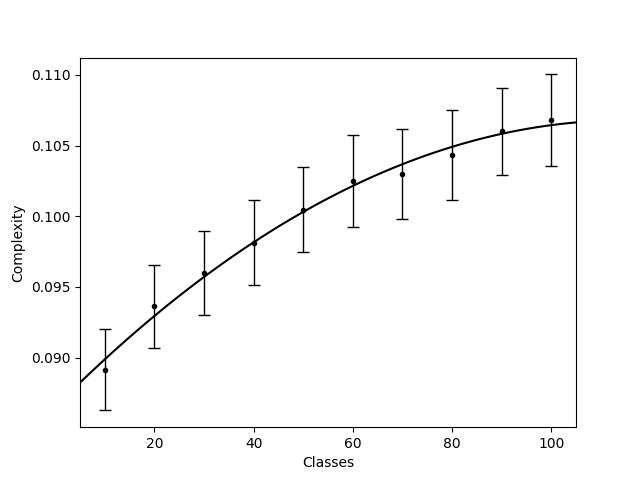
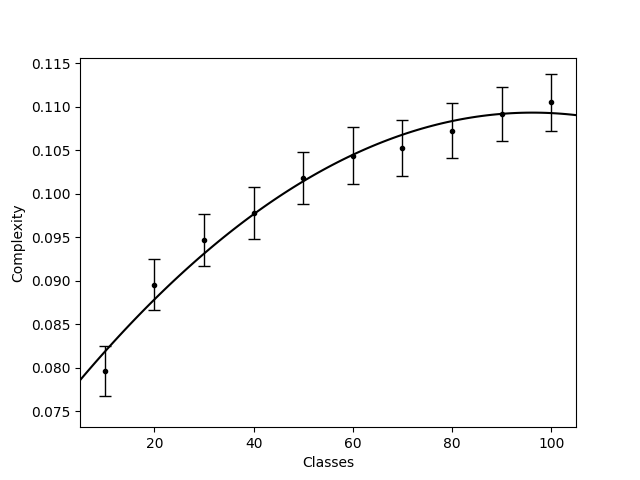
fixing graph label

diff --git a/dev/complexity/classifcation_exp/model_fit.py b/dev/complexity/classifcation_exp/model_fit.py
@@ -8,14 +8,17 @@ from sklearn.model_selection import GridSearchCV
 from sklearn.linear_model import LinearRegression, SGDRegressor
 from sklearn import metrics
 
+from statistics import variance, mean, stdev
+import copy
+
 import matplotlib.pyplot as plt
 
 
-def area_under_curve(model, data):
-    width_const = 0.001
+def area_under_curve(model, data, ran_min):
+    width_const = 0.0001
 
     # Get 100 data points
-    x = np.arange(min(data)[0], max(data)[0], width_const)
+    x = np.arange(min(data), max(data), width_const)
     x = np.reshape(x,(-1, 1))
 
     # Get y prediction 
@@ -38,55 +41,12 @@ def area_under_curve(model, data):
         AuC += box
 
     # Scale by size
-    AuC = AuC / abs(min(data)[0] - max(data)[0])
+    #AuC = AuC / (abs(min(data) - max(data)))
+    #AuC = AuC / min(data)
+    #print(variance(data))
+    #AuC = AuC / (mean(data) * variance(data))
 
     return AuC
-
-# Bin data according to mean
-def box_data(data):
-    number_boxes = 20 + 1
-    new_data = dict()
-
-    # Process by names
-    for name in data.keys():
-        # get score
-        x_data = []
-        # TP
-        y_data = []
-        for i in data[name]:
-            x_data.append(i[4])
-            y_data.append(i[2])
-        
-        # Find min/max score
-        min_s = min(x_data)
-        max_s = max(x_data)
-
-        a = np.arange(min_s, max_s, (max_s - min_s)/number_boxes)
-        
-        for ind, val in enumerate(x_data):
-            x_sum = 0
-            y_sum = 0
-            count = 0
-            for ind2, val2 in enumerate(a[0:len(a)-1]):
-                if x_data[ind] >= a[ind2] and x_data[ind] < a[ind2+1]:
-                    x_sum += x_data[ind]
-                    y_sum += y_data[ind]
-                    count += 1
-            # Check for non zero count
-            if count == 0:
-                continue
-
-            # Get averages and save it
-            x_avg = x_sum / count
-            y_avg = y_sum / count
-
-            # Check if it already exists
-            if name not in new_data:
-                new_data[name] = []
-
-            new_data[name].append([x_avg, y_avg])
-
-    return new_data, std
 
 with open('data/results.csv', newline='') as csvfile:
     spamreader = csv.reader(csvfile, delimiter=',', quotechar='|')
@@ -109,16 +69,18 @@ with open('data/results.csv', newline='') as csvfile:
             continue
         results[row[0]].append(datum)
 
-# Bin the data
-#results = box_data(results)
-#print(results)
-
 k = []
 fig, axs = plt.subplots(2, 3)
 c = 0
 e = []
 AuCs = []
+
+random_mins = {"MNIST":0.1, "FMNIST":0.1, "C10":0.1, "C100":0.01, "CARTPOLE":0.5}
+
 for name in results.keys():
+    # Get random min values
+    ran_min = random_mins[name]
+
     # get TP
     x_data = []
     # SCORE
@@ -127,6 +89,8 @@ for name in results.keys():
     for i in results[name]:
         x_data.append(i[4])
         y_data.append(i[2])
+
+    x_data_nominal = copy.deepcopy(x_data)
 
     # Reshape because we have one feature
     x_data = np.reshape(np.asarray(x_data),(-1, 1))   
@@ -171,7 +135,7 @@ for name in results.keys():
     print('TP-log-1.0: %.2f'
       % (k[-1]))
 
-    e.append(round(area_under_curve(regressor, x_data), 4))
+    e.append(round(area_under_curve(regressor, x_data_nominal, ran_min), 4))
     AuCs.append(e[-1])
 
     print("AuC:", str(e[-1]))
@@ -181,7 +145,7 @@ for name in results.keys():
 
 print('AuCs:', AuCs)
 
-plt.show()
+#plt.show()
 s = sum(k)
 for ind, val in enumerate(k):
     k[ind] = val/s
@@ -206,22 +170,4 @@ e_s = sum(e)
 for ind, val in enumerate(e):
     e[ind] = val/e_s
     print(round(e[ind],4))
-
-import matplotlib.pyplot as plt
-import numpy as np
-
-# construct some data like what you have:
-x = np.random.randn(100, 5)
-mins = x.min(0)
-maxes = x.max(0)
-means = x.mean(0)
-std = x.std(0)
-
-# create stacked errorbars:
-plt.errorbar(np.arange(5), means, std, fmt='ok', lw=3)
-plt.errorbar(np.arange(5), means, [means - mins, maxes - means],
-             fmt='.k', ecolor='gray', lw=1)
-plt.xlim(-1, 5)
-
-plt.show()
 

diff --git a/dev/complexity/independence_exp/ind.py b/dev/complexity/independence_exp/ind.py
@@ -79,45 +79,35 @@ def clean(TP, means):
 
     return list(tps), y, stds
 
+
+def sum_norm(data):
+    sum_data = sum(data)
+    for ind, val in enumerate(data):
+        data[ind] = val/sum_data
+    return data
+
 # Overall Plot
 TPS = []
 means = []
 stds = []
 once = 0
-'''
+
 # Many dots plot
 for TP in results.keys():
     for sample in results[TP]:
         # Const complexity from calibration
-        comps = [0.1693, 0.1638, 0.2632, 0.3745, 0.0292]
+        comps = [8.802, 8.513, 13.68, 19.466, 1.519]
 
         # Multiply element wise
         #scores = np.multiply(comps, sample)
-        scores = sample
+        sample = np.subtract(1, sample)        
+
+        # Find dot product
+        scores = np.divide(np.dot(comps, sample), 
+                           np.linalg.norm(comps) * np.linalg.norm(sample))
         
         TPS.append(TP)        
-        means.append(np.sum(scores))
-        markers = ['x'] * 5
-
-        x = [TP] * 5
-        y = scores
-        s = ['8', 's', 'p', 'D', 'X']
-        col = ['red','green','blue', 'brown','orange']
-        label = ['MNIST', 'FMNIST', 'C10', 'C100', 'CARTPOLE']
-        for _s, c, _x, _y, _l in zip(s, col, x, y, label):
-            if once < 5:
-                plt.scatter(_x, _y, marker=_s, c=c, label=_l)
-                once = once + 1
-            else:
-                plt.scatter(_x, _y, marker=_s, c=c)
-        #plt.scatter([TP] * 5, scores, marker=markers)
-plt.legend()
-plt.xlabel('nodes * layers')
-plt.ylabel('SCORE')
-plt.show()
-
-
-'''
+        means.append(scores)
 
 # Clean data
 x, y, std = clean(TPS, means)
@@ -128,29 +118,26 @@ x, y, std = clean(TPS, means)
 plt.errorbar(x, y, yerr=[std, std],
              fmt='.k', ecolor='black', lw=1, capsize=4, capthick=1, label='Mean/Error')
 
-'''
 # Trendline
-z = np.polyfit(np.exp(x), np.exp(y), 1)
-print(z)
+z = np.polyfit(x, y, 1)
 p = []
+print(z)
 for i in x:
-    k = np.log(z[1]) * np.log(i * z[0])
+    k = z[0] * i + z[1]
     p.append(k)
 
 plt.plot(x, p, color='black')
-'''
 
-def binding(x,kd,bmax):
-    return (bmax*x)/(x+kd)
-param=sp.optimize.curve_fit(binding, x,y)
-
-plt.plot(np.arange(36), binding(np.arange(36),*param[0]), color='orange', label='TrendLine')
+#plt.plot(np.arange(36), binding(np.arange(36),*param[0]), color='orange', label='TrendLine')
 
 # Single points plot
 plt.scatter(TPS, means, marker='x', label='Scores')
 plt.legend(loc='lower right')
 plt.xlabel('nodes * layers')
-plt.ylabel('AIQ')
+plt.ylabel('Complexity Fit')
 plt.show()
+
+print(np.corrcoef(TPS[4:], means[4:]))
+
 
 

diff --git a/dev/complexity/classes_exp/model_fit.py b/dev/complexity/classes_exp/model_fit.py
@@ -9,13 +9,14 @@ from sklearn.linear_model import LinearRegression, SGDRegressor
 from sklearn import metrics
 
 import matplotlib.pyplot as plt
-
+import copy
+from statistics import mean, variance, stdev
 
 def area_under_curve(model, data):
     width_const = 0.001
 
     # Get 100 data points
-    x = np.arange(min(data)[0], max(data)[0], width_const)
+    x = np.arange(min(data), max(data), width_const)
     x = np.reshape(x,(-1, 1))
 
     # Get y prediction 
@@ -38,8 +39,11 @@ def area_under_curve(model, data):
         AuC += box
 
     # Scale by size
-    AuC = AuC / abs(min(data)[0] - max(data)[0])
-
+    #AuC = AuC / (abs( min(data) - max(data) ) * stdev(data))
+    #print(stdev(data))
+    #AuC = AuC / (mean(data) * variance(data))
+    #AuC = AuC / mean(data)
+    AuC = AuC / (max(data))
     return AuC
 
 # Bin data according to mean
@@ -125,6 +129,8 @@ for name in results.keys():
     for i in results[name]:
         x_data.append(i[1])
         y_data.append(i[0])
+    
+    x_data_nominal = copy.deepcopy(x_data)
 
     # Reshape because we have one feature
     x_data = np.reshape(np.asarray(x_data),(-1, 1))   
@@ -170,7 +176,7 @@ for name in results.keys():
     print('TP-log-1.0: %.2f'
       % (k[-1]))
 
-    e.append(round(area_under_curve(regressor, x_data), 4))
+    e.append(round(area_under_curve(regressor, x_data_nominal), 4))
     AuC.append(e[-1])
 
     print("AuC:", str(e[-1]))

diff --git a/dev/complexity/distrbiution_exp/plot.py b/dev/complexity/distrbiution_exp/plot.py
@@ -3,12 +3,14 @@ import numpy as np
 import math
 
 # Generated from model_fit.py
-auc = [6.0822, 5.6765, 5.6473, 5.2732, 4.7789, 4.458, 4.6108, 4.0686, 4.1759, 4.2632, 4.2129, 4.1003, 4.1281, 4.262, 4.2501, 4.544, 4.5879, 5.4438, 5.441, 5.1775]
+auc = [4.9561, 5.0855, 5.1566, 4.7356, 5.01, 4.9154, 5.3037, 5.2821, 5.0967, 5.597, 4.8653, 6.3123, 5.7874, 6.5714, 5.0238, 6.149, 5.9376, 6.0853, 5.9871, 6.5085]
+
 mse = [1.6069, 2.0549, 1.4217, 1.8377, 1.5756, 1.2339, 1.404, 1.6713, 1.774, 1.3187, 1.8169, 1.2732, 1.5557, 1.5664, 1.9309, 1.9535, 2.5924, 2.4992, 2.5626, 2.7055]
 
 # Generated from overlap.py
 over = [0.9698, 0.8058, 0.6718, 0.5503, 0.44, 0.3494, 0.2802, 0.2214, 0.1743, 0.1426, 0.1099, 0.086, 0.0684, 0.0529, 0.0419, 0.0313, 0.0241, 0.0179, 0.0141, 0.0107]
-
+# Flip over
+over = list(reversed(over))
 
 # Generated from model_fit.py
 distance = [0.0, 0.1581138830084191, 0.31622776601683805, 0.4743416490252568, 0.6324555320336757, 0.7905694150420949, 0.948683298050514, 1.106797181058933, 1.2649110640673515, 1.4230249470757705, 1.5811388300841898, 1.7392527130926088, 1.897366596101028, 2.055480479109446, 2.2135943621178655, 2.3717082451262845, 2.529822128134704, 2.6879360111431225, 2.846049894151541, 3.0041637771599605]

diff --git a/dev/complexity/distrbiution_exp/model_fit.py b/dev/complexity/distrbiution_exp/model_fit.py
@@ -13,7 +13,7 @@ import matplotlib.pyplot as plt
 
 import ast
 
-def area_under_curve(model):
+def area_under_curve(model, data):
     width_const = 0.001
 
     # Get 100 data points
@@ -38,6 +38,8 @@ def area_under_curve(model):
         box = square + triangle
 
         AuC += box
+
+    AuC = AuC / (max(data) - min(data))
 
     return AuC
 
@@ -143,6 +145,8 @@ for name in names:
         x_data.append(i[1])
         y_data.append(i[0])
 
+    x_data_ori = x_data
+
     # Reshape because we have one feature
     x_data = np.reshape(np.asarray(x_data),(-1, 1))   
 
@@ -187,7 +191,8 @@ for name in names:
     print('TP-log-1.0: %.2f'
       % (k[-1]))
 
-    e.append(round(area_under_curve(regressor), 4))
+    aruc = area_under_curve(regressor, x_data_ori)
+    e.append(round(aruc, 4))
     AuC.append(e[-1])
 
     print("AuC:", str(e[-1]))

diff --git a/dev/complexity/classifcation_exp/entropy_plot.py b/dev/complexity/classifcation_exp/entropy_plot.py
@@ -3,7 +3,7 @@ import numpy as np
 import math
 
 # Generated from plot.py
-auc = [9.4758, 9.3245, 9.5148, 10.5729, 11.9271]
+auc = [8.802, 8.513, 13.68, 19.466, 1.519]
 mse = [0.62, 0.64, 1.31, 0.75, 1.99]
 
 # Generated from entropy.py
@@ -44,7 +44,7 @@ plt.xlim(-0.5, 4.5)
 plt.xticks(np.arange(5), ["MNIST", "FMNIST", "C10", "C100", "CARTPOLE"])
 plt.ylim(0, 0.5)
 plt.xlabel('Domains')
-plt.ylabel('Complexity')
+plt.ylabel('Complexity / Entropy')
 
 # Save to file
 plt.savefig('Entropies.png')

diff --git a/dev/complexity/classes_exp/plot.py b/dev/complexity/classes_exp/plot.py
@@ -5,7 +5,7 @@ import math
 from scipy.optimize import curve_fit
 
 # Generated from model_fit.py
-auc = [11.8015, 12.3957, 12.7087, 12.9891, 13.2987, 13.5669, 13.6319, 13.8112, 14.0316, 14.1382]
+auc = [9.3979, 10.5648, 11.1701, 11.5362, 12.0138, 12.3153, 12.4202, 12.6515, 12.8786, 13.0363]
 mse = [0.5618, 0.5782, 0.5974, 0.6064, 0.6081, 0.7243, 0.6826, 0.6723, 0.6453, 0.7036]
 number_of_domains = 10
 
